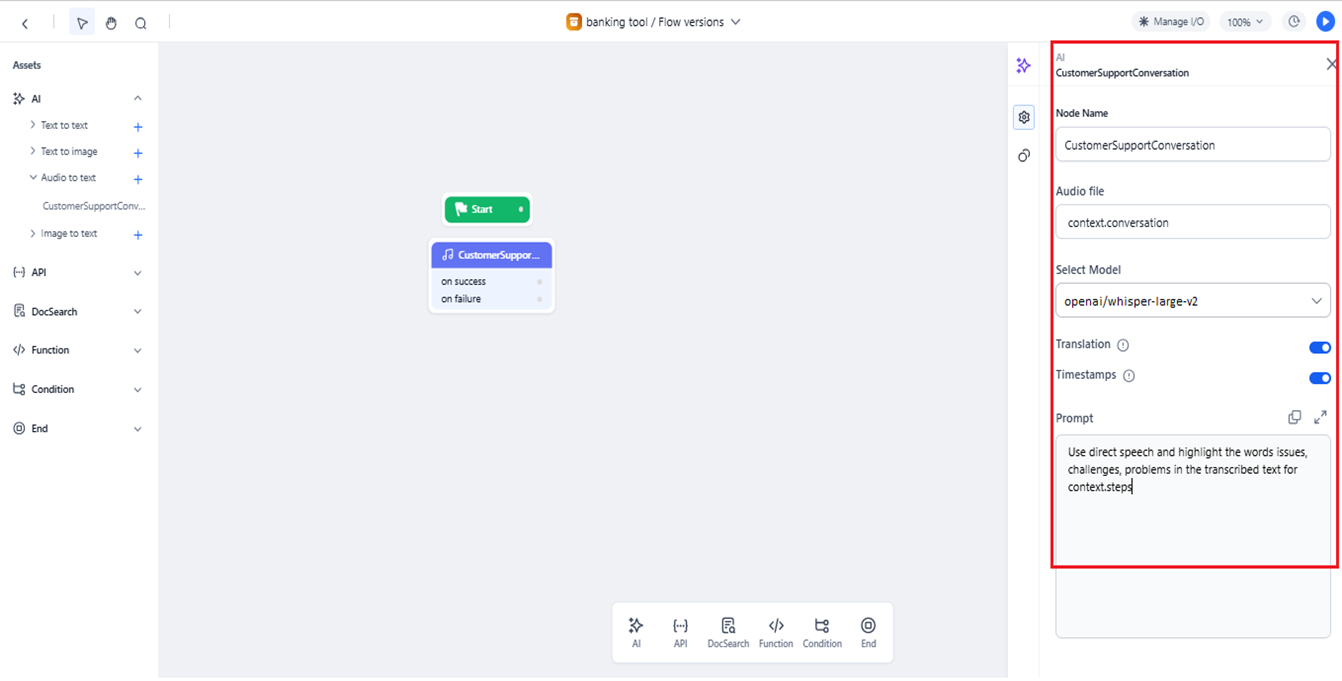
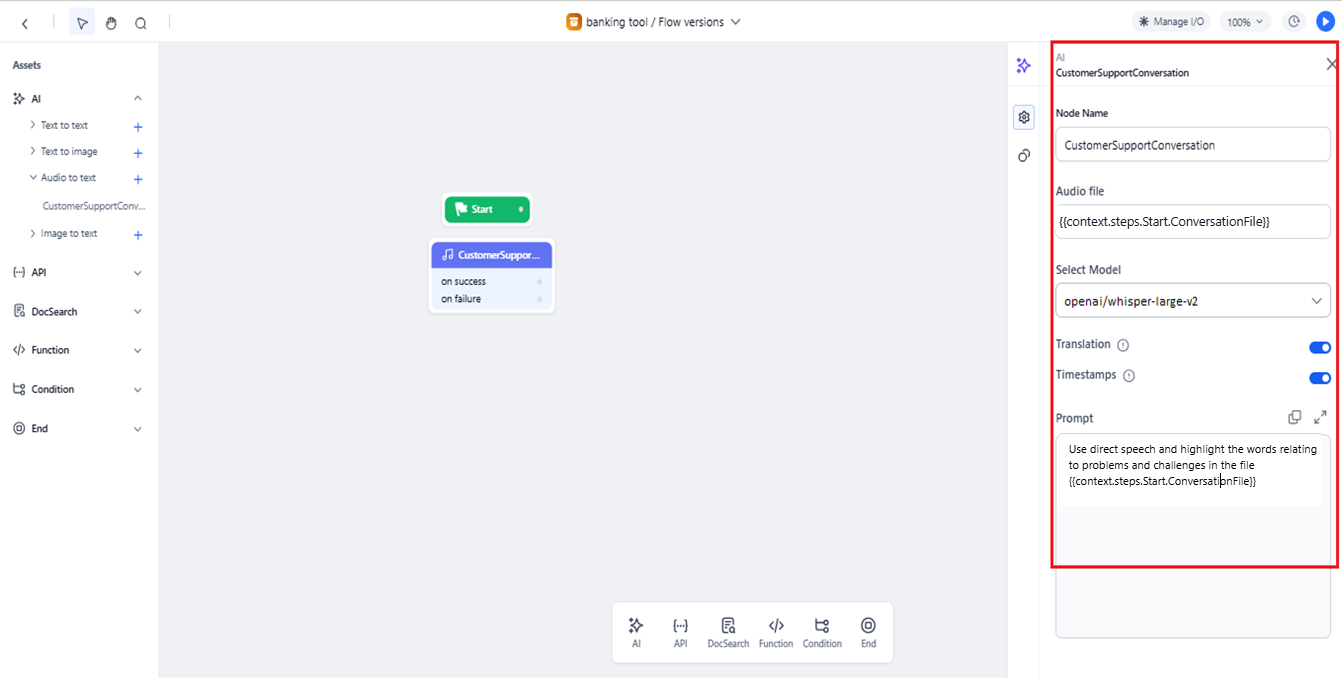
commit: audio to text edits

Changed region(s): [[0.7943, 0.6167, 0.9776, 0.7401], [0.7943, 0.3084, 0.9471, 0.3392]]

diff --git a/docs/agent-platform/ai-agents/tools/tool-flows/types-of-nodes/audio-to-text-node.md b/docs/agent-platform/ai-agents/tools/tool-flows/types-of-nodes/audio-to-text-node.md
@@ -146,7 +146,18 @@ Metrics include:
     * (Optional) Turn on the toggle for the following to enable the respective feature:
          * **Translation**: Translate other languages supported by the model to English.
          * **Timestamps**: The date and time at which each dialog was spoken.
-    * Provide the instructions that you want the model to follow for **Prompt**.  User prompts define specific questions or requests for the model. Provide clear instructions for the model to follow, using context variables for dynamic inputs in the recommended syntax: `{{context.variable_name}}`. For example, you can store the conversation transcript in a variable named “conversation” and pass it on in the prompt using `{{context.conversation}}`. You may include simple instructions regarding the style of the transcription, correct words or proper nouns, in case the model could not figure out what the spoken word was, fix punctuations, add context, and more.
+    * Provide clear instructions you want the model to follow when processing the node in the **Prompt** field, such as specific questions or requests  
+    
+      You can use a hardcoded instruction like "<i>Use direct speech and highlight words related to problems and challenges in the voice/audio file</i>," when a static audio file URL input is provided in the Start node. 
+    
+      Alternatively, you can add dynamic prompt instructions referencing different audio file URLs from the Start node using the syntax: `{{context.variable_name}}`, where <i>variable_name</i> stores the audio file URL. 
+      
+      For example, if “<i>ConversationFile</i>” stores the audio file URL (passed dynamically during runtime), you can reference it in the prompt using the syntax <code>{{context.steps.Start.ConversationFile}}</code>, as shown below.
+      <img src="../images/dynamic-prompt-example.png" alt="dynamic prompt example" title="dynamic prompt example" style="border: 1px solid gray; zoom:75%;">
+    
+      You may include simple instructions regarding the style of the transcription, correct words or proper nouns, in case the model could not figure out what the spoken word was, fix punctuations, add context, and more. 
+      
+      For example, "<i>Use a clean verbatim transcription style by omitting filler words such as “um,” “uh,” or “you know.” Correct any misheard or unclear words, especially product names, company names, and technical terms. Ensure proper punctuation and sentence casing to make the transcript easy to read. If a word is not clear, mark it as "inaudible" with a timestamp. Add short speaker labels (Customer: and Agent:) and make light contextual corrections for grammar and clarity without altering the original meaning."</i>
 
     <div class="admonition note">
     <p class="admonition-title">Note</p>
